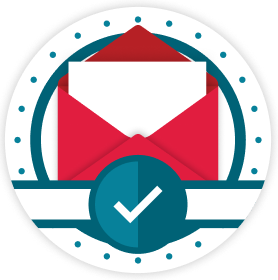
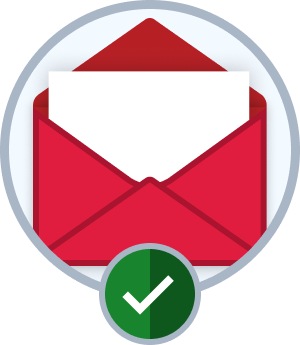
LG-16396 Add improved illustrations to application
changelog: User-Facing Improvements, Illustration Improvements, Improve visual consistency of IdV.

diff --git a/app/javascript/packages/document-capture/components/in-person-switch-back-step.tsx b/app/javascript/packages/document-capture/components/in-person-switch-back-step.tsx
@@ -15,7 +15,7 @@ function InPersonSwitchBackStep({ onChange }: FormStepComponentProps<any>) {
     <>
       <PageHeading>{t('in_person_proofing.headings.switch_back')}</PageHeading>
       <img
-        src={getAssetPath('idv/switch.png')}
+        src={getAssetPath('idv/switch-back-to-computer.svg')}
         width={193}
         alt={t('doc_auth.instructions.switch_back_image')}
       />

diff --git a/app/presenters/idv/how_to_verify_presenter.rb b/app/presenters/idv/how_to_verify_presenter.rb
@@ -63,7 +63,7 @@ class Idv::HowToVerifyPresenter
   end
 
   def post_office_asset_url
-    'idv/in-person.svg'
+    'idv/post-office.svg'
   end
 
   def post_office_asset_alt_text
